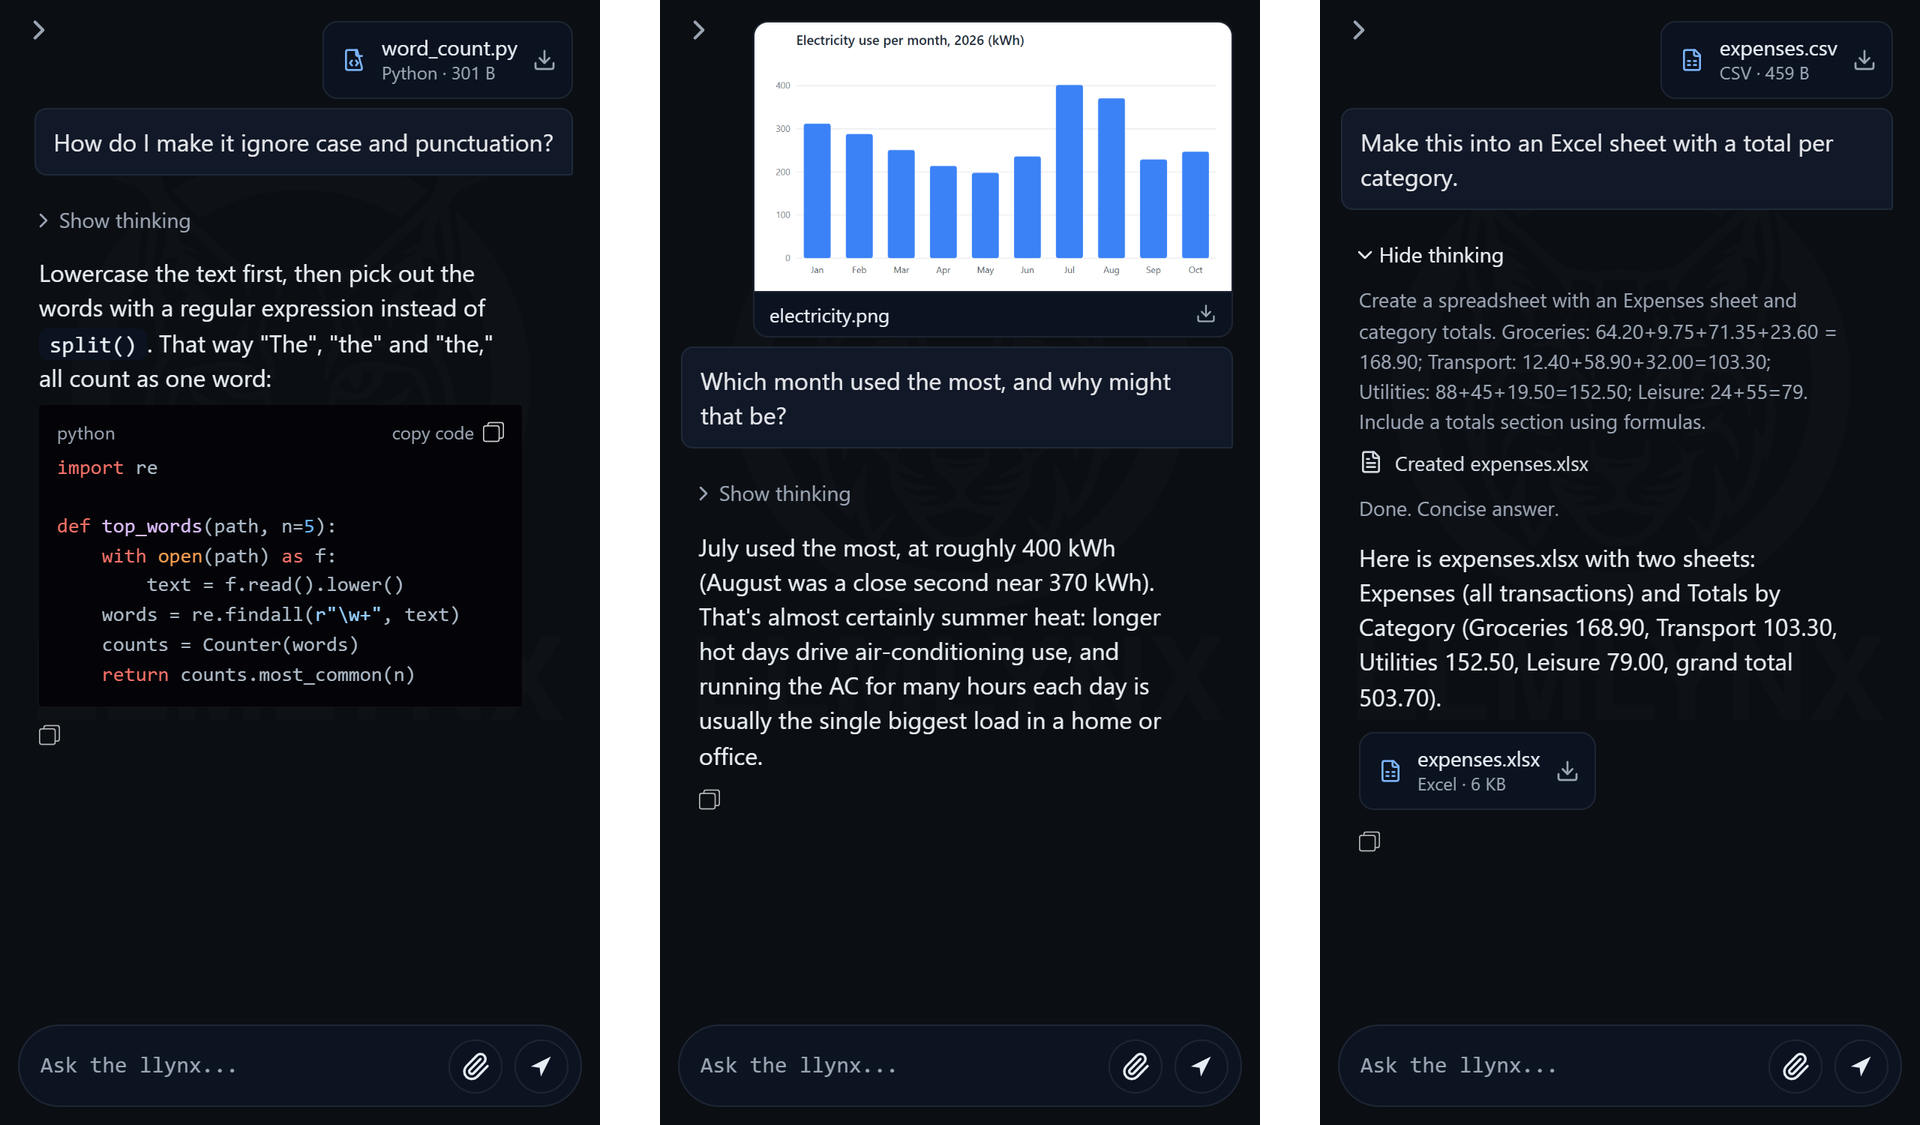
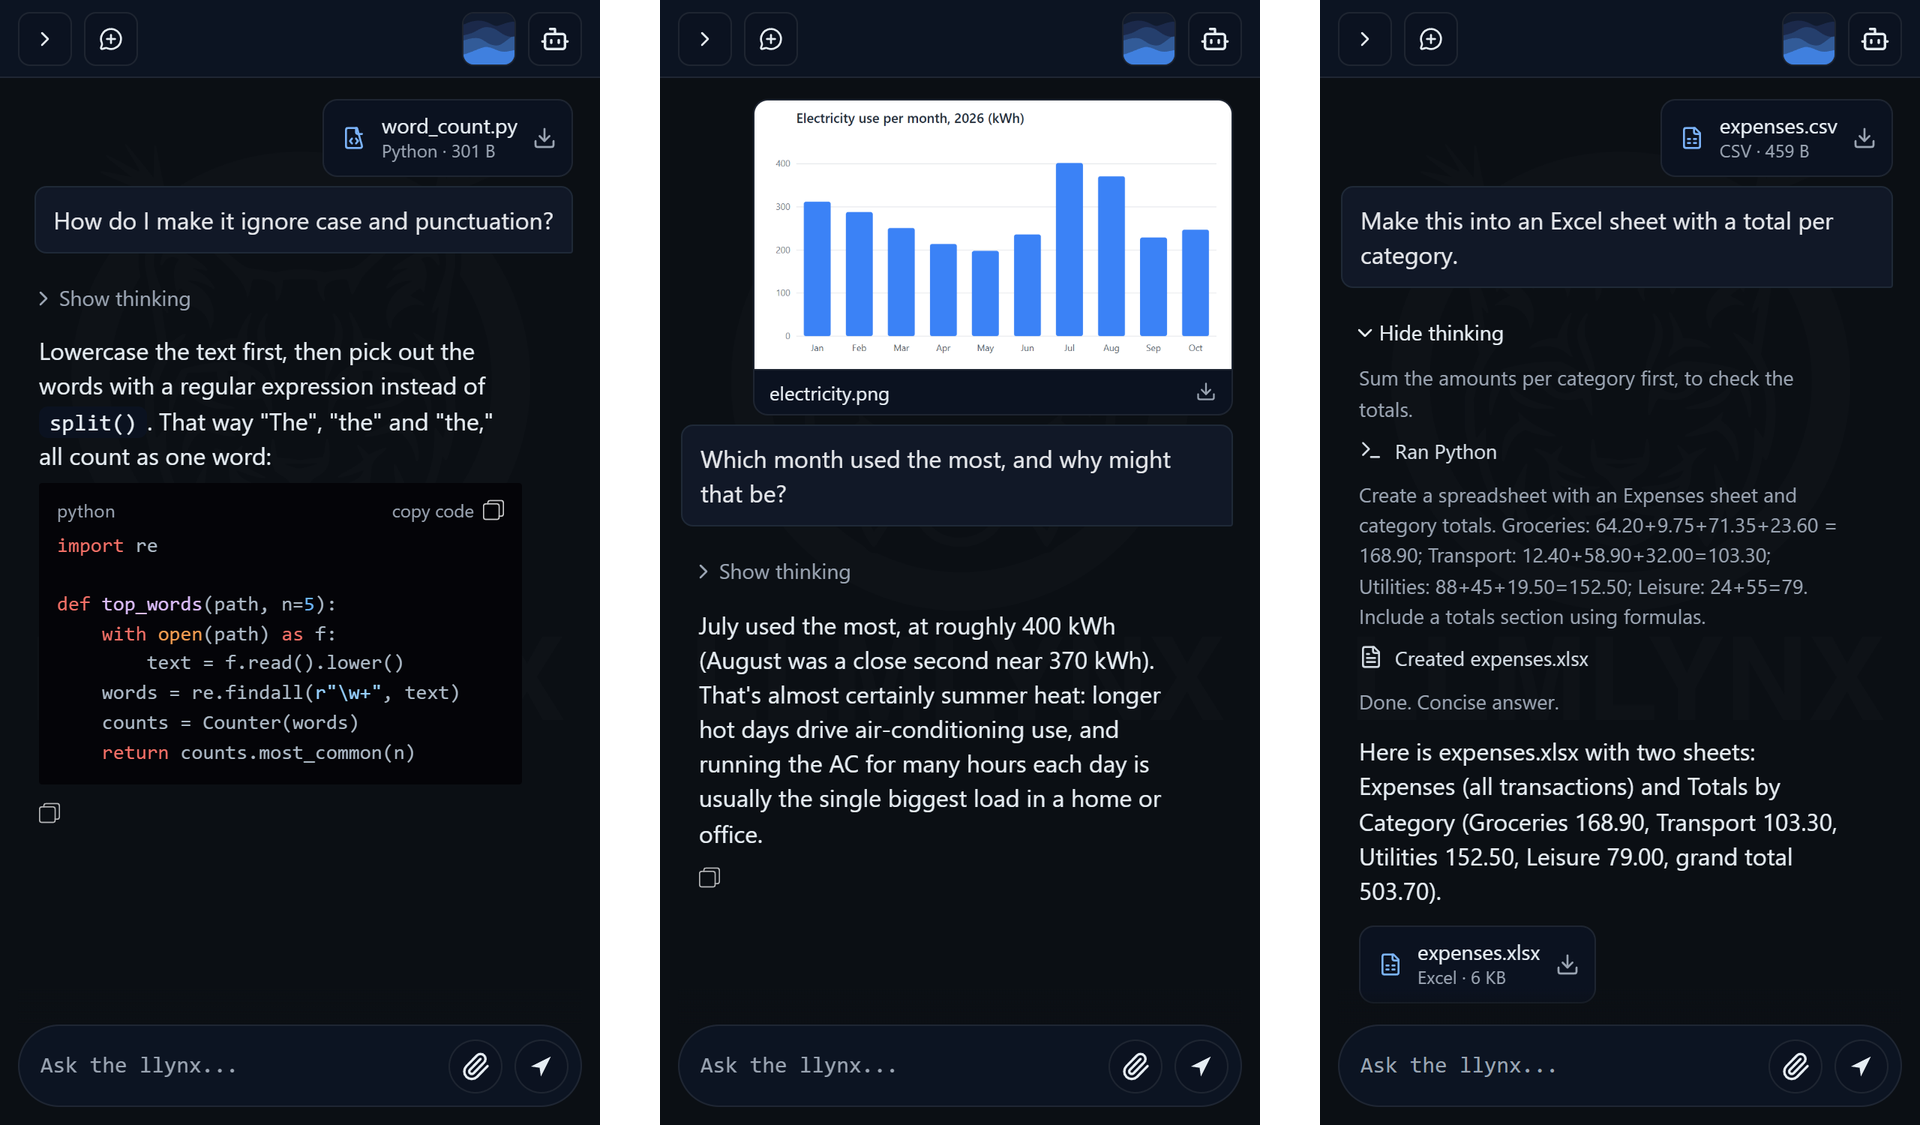
Updated README.md

diff --git a/src/app/chat/components/sandbox/FilePreview.tsx b/src/app/chat/components/sandbox/FilePreview.tsx
@@ -265,7 +265,7 @@ export default function FilePreview({ id, name, mimeType, size }: { id: string; 
   const ext = extensionOf(name);
   if (isInlineImage(mimeType) || isSvg(mimeType)) {
     // eslint-disable-next-line @next/next/no-img-element -- an authenticated API image, not a static asset
-    return <div className={styles.scroll}><img className={styles.image} src={`/api/attachments/${id}`} alt={baseName(name)} /></div>;
+    return <div className={`${styles.scroll} ${styles.imageScroll}`}><img className={styles.image} src={`/api/attachments/${id}`} alt={baseName(name)} /></div>;
   }
   if (isHtml(mimeType)) return <HtmlView id={id} name={name} />;
   if (ext === "md" || ext === "markdown") return <MarkdownView id={id} />;

diff --git a/src/app/chat/components/sandbox/Sandbox.module.css b/src/app/chat/components/sandbox/Sandbox.module.css
@@ -399,6 +399,8 @@
   margin: 8px auto;
   background: #fff;
 }
+/* An image's box ends at the image, so its rounded corners frame it on all sides */
+.imageScroll { flex: 0 1 auto; }
 
 /* HTML: its page in a sandboxed frame, or its source */
 .htmlView {

diff --git a/README.md b/README.md
@@ -73,6 +73,7 @@ Settings are in `.env`, which setup creates from `.env.example` with its secrets
 | `SYSTEM_PROMPT` | Default system prompt for Ollama models and agents |
 | `OLLAMA_URL` | Default Ollama server, if it does not run on `http://localhost:11434`. Users can set their own |
 
+
 ### Model providers
 
 Each user connects their own providers on the **Account** page (click your email at the top of the sidebar):
@@ -82,7 +83,7 @@ Each user connects their own providers on the **Account** page (click your email
 
 ### Agents and tools
 
-On the **Agents** page you combine a base model from any connected provider with a system prompt, tools and generation options. All agents appear together under **Agents** in the sidebar.
+On the **Agents** page you combine a base model from any connected provider with a system prompt, tools and generation options. You can decide to enable individual tools for individual agents, including code execution and versioning with git.
 
 <p align="center" style="padding:16px;">
   <img src="./public/screen_agents.png" alt="LLMLYNX Logo" />
@@ -90,7 +91,7 @@ On the **Agents** page you combine a base model from any connected provider with
 
 Custom agents can search the web, read pages, take screenshots, read, create and edit files, download files, run code and use git if their tools are selected. Tools are off by default: on the **Agents** page, each tool has a checkbox. A tool is only offered when the agent's base model supports it (Ollama and the OpenRouter model list say whether a model can call tools and see images).
 
-| Tool | What it does | Needs |
+| Tool | Function | Requires |
 |---|---|---|
 | Web search | Searches the web through a private SearXNG instance | a model that can call tools |
 | Read pages | Reads a page, PDF or text file as text, without running JavaScript | a model that can call tools |
@@ -109,11 +110,15 @@ Custom agents can search the web, read pages, take screenshots, read, create and
 
 An agent with any tool that works on files can also give you a file of its sandbox, as a card below its reply.
 
-**The sandbox.** Each chat has a sandbox: the files you attached, and those its tools made, downloaded or changed, in folders. A changed file keeps its older versions. Code runs in a jail of its own per run, with a copy of the chat's files and no network, for at most 120 seconds and 512 MB; only files are kept between runs. A file can be 20 MB, a sandbox 100 MB. A git repository is a folder of the sandbox; its history is kept apart from the sandbox's files (64 MB per repository), where code cannot reach it. Once a chat ran code or downloaded a file, a chevron at the right edge opens the sandbox panel: its files with previews and versions, its runs with their code and output, and its installed packages.
+### The sandbox
 
-You can set the maximum number of tool calls the agent can perform each turn. The model is told how many it has, and each result says how many are left. When the agent is out of tool calls it answers with what it has found.
+A chat instance can create a dedicated sandbox, which is an isolated environment where code can run and files stored. Files are scanned for viruses before going into the sandbox and before being shown to the user. Code runs in a jail, with only a copy of the chat's files and no network or system file access, so it cannot reach the internet, your LAN, the app or the other containers. The sandbox thus lets the an agent modify and run code safely, and produce artifacts at your request.
 
-The tools run in their own containers:
+<p align="center" style="padding:16px;">
+  <img src="./public/screen_sandbox_plot.png" alt="LLMLYNX Logo" />
+</p>
+
+All tools and guards run in their own containers:
 
 | Container | Purpose |
 |---|---|
@@ -131,17 +136,13 @@ The tools run in their own containers:
 
 ## Security
 
-**Secrets.** Passwords and recovery codes are stored as salted bcrypt hashes, never as plain text. A login session is a random token in a cookie, and the database keeps only a hash of it. API keys for OpenAI and OpenRouter must stay readable to be used, so they are encrypted (AES-256-GCM). Setup creates the encryption key, and a random token for each container. The containers can only be reached from the machine itself, and the tool servers refuse calls without their token.
+**Secrets.** Passwords and recovery codes are stored as salted bcrypt hashes (never plain text). API keys for OpenAI and OpenRouter must stay readable to be used, so they are encrypted (AES-256-GCM). Setup creates the encryption key, and a random token for each container. The containers can only be reached from the machine itself and are gated by an acess token. 
 
 **Scanning.** Everything an agent gets from the internet is checked on the server before a model sees it. Nothing is sent to an outside service for this. ClamAV scans for viruses, and Llama Prompt Guard 2 scans for prompt injection. Files you attach yourself are scanned for viruses only.
 
 - A virus: the file is refused, or the web content is thrown away.
 - A prompt injection: the reply pauses, and you choose to remove the content and continue, or to stop. A chevron shows the text that was flagged.
 - Content that could not be checked is withheld.
-
-**Code.** Code runs in a jail without network, so it cannot reach the internet, your LAN, the app or the other containers, and it gets none of the server's secrets. What it prints is checked like a web page, and the files it makes for viruses. Once text that tried to instruct the model is in a chat, you are asked before code runs. git is not available to code: only the git tool runs it, without network, and its downloads happen in a separate jail that holds nothing of the chat. Pages that code or a model makes show in a sandboxed frame that cannot load or send anything. Details in [docs/security.md](docs/security.md).
-
-The prompt guard is Meta's Llama Prompt Guard 2, in the ONNX versions from [Llama-Prompt-Guard-2-22M-onnx](https://huggingface.co/rudyvdbrink/Llama-Prompt-Guard-2-22M-onnx) (the default) and [Llama-Prompt-Guard-2-86M-onnx](https://huggingface.co/rudyvdbrink/Llama-Prompt-Guard-2-86M-onnx). 
 
 ---
 
